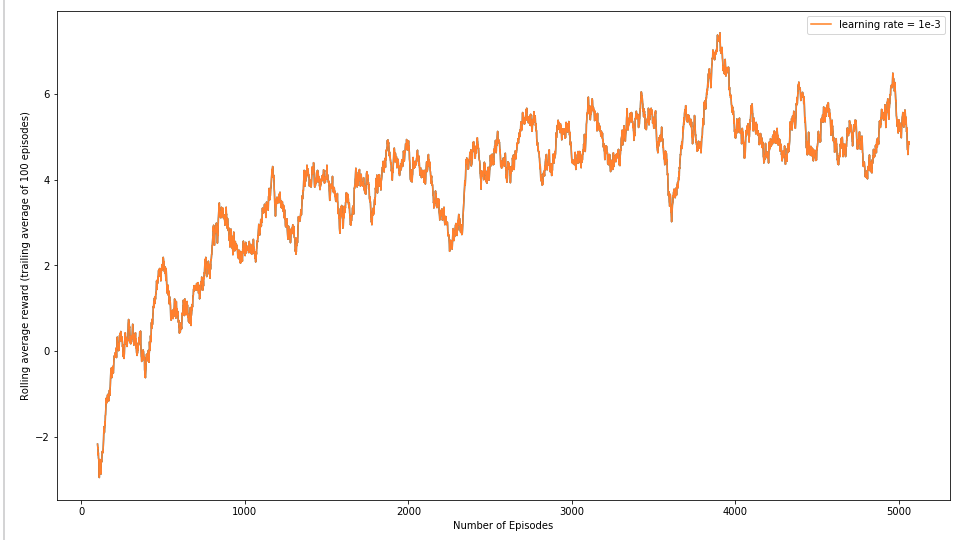
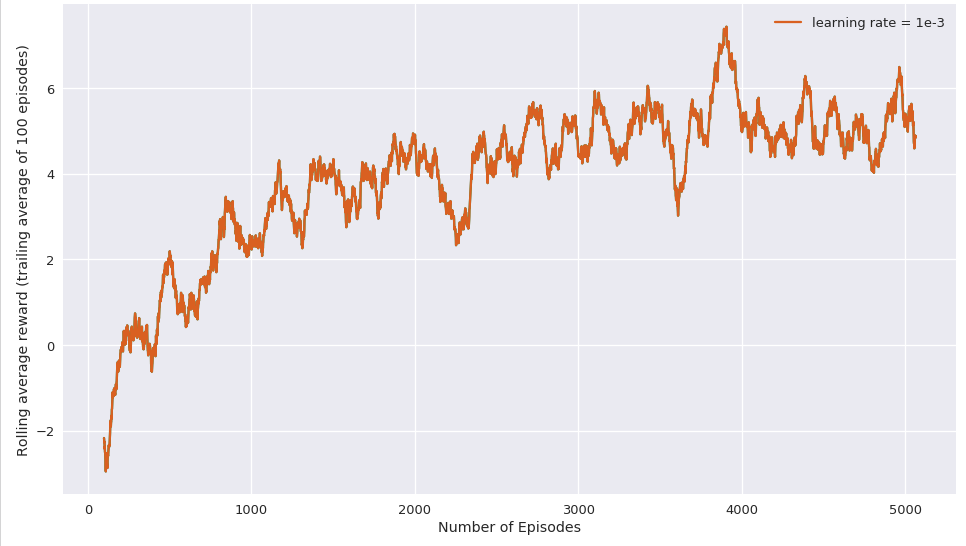
Fixed typo in readme and results chart styling

diff --git a/README.md b/README.md
@@ -32,7 +32,7 @@ A minor fix was added which crops more of the image vs the base repo, by removin
 
 The agent that played this game was trained for ~10000 episodes (basically 10000 episodes of 'best-of-21' rounds) over a period of ~ 13 hours, on a Macbook Pro 2018 with 2.6GHz i7 (6 cores).  The running mean score per episode, over the trailing 100 episodes, at the point I stopped training was 2.5, i.e. the trained AI Agent would win each episode 21 points to 18.5.
 
-Training for another 10 hour for another 5000 espidoes allowed the trained AI Agent to reach a running mean score per epsisode of 5, i.e. the trained AI Agent would win each episode 21 points to 16.
+Training for another 10 hours & another 5000 episodes allowed the trained AI Agent to reach a running mean score per epsisode of 5, i.e. the trained AI Agent would win each episode 21 points to 16.
 
 **Graph of reward over time - first 10000 episodes of training**
 ![Reward over time with bugfix](https://github.com/omkarv/pong-from-pixels/blob/master/experiment-output/bugfix-rewards-chart.png)
